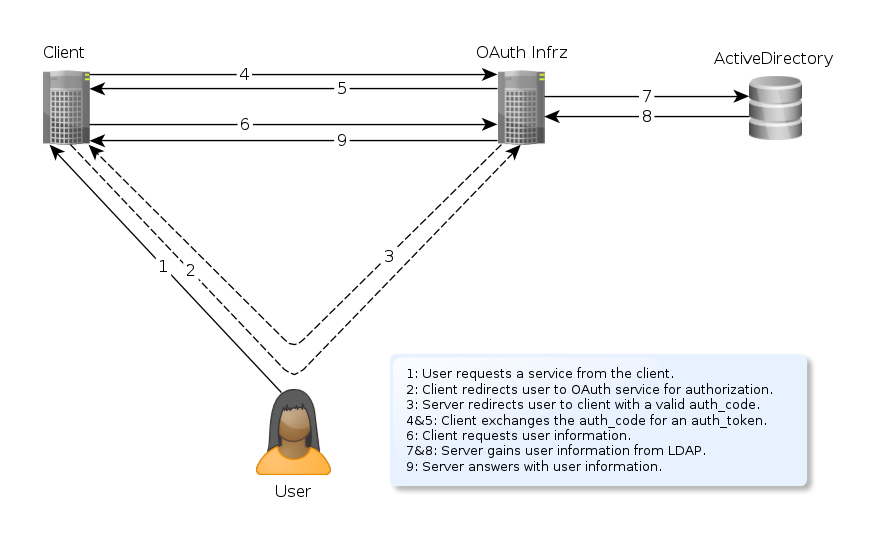
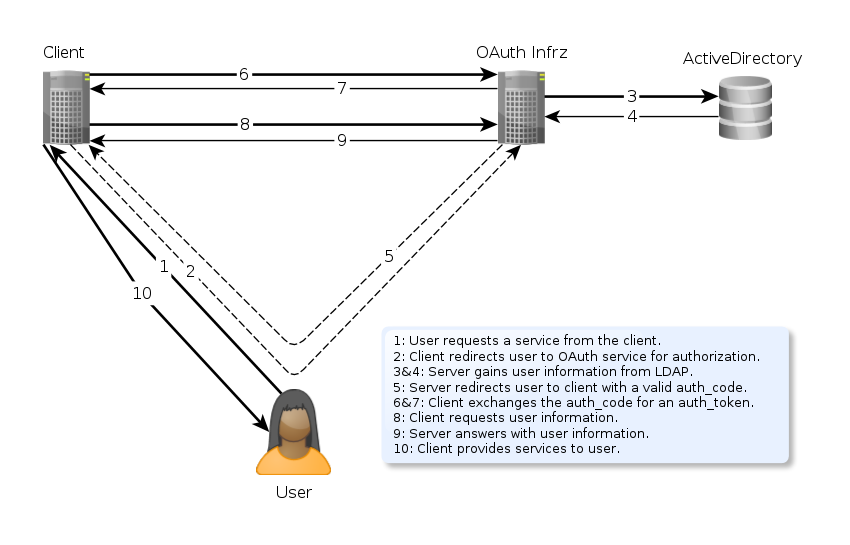
updated oauth diagram and improved doc

Changed region(s): [[0.0306, 0.0625, 0.9482, 0.9375], [0.4588, 0.5938, 0.9482, 0.9062], [0.0612, 0.0625, 0.0918, 0.125]]

diff --git a/README.md b/README.md
@@ -3,7 +3,27 @@ Single-Sign-On solution for ActiveDirectory of "Informatik Rechenzentrum" at Uni
 
 # OAuth
 ## How OAuth2 works
+The following diagram and text explains *my* implementation of the OAuth2 protocol.
+Although I have tried to conform to the protocols conventions the details to different implementations may vary.
+
 ![OAuth2 process](doc/oauth2_process.png)
+
+1. The user wants to use a client site.
+ * **GET** `https://client-site.org/service`
+2. The client site informs the user about the authorization request and redirects her to the authorization request page on the OAuth2 Infrz site.
+ * **GET** `https://my-oauth-server.edu/authorize?client_id={cid}&redirect_uri={ru}`
+3. After the user logs in to the OAuth Infrz service, it confirms the users identity by checking his "Informatik Rechenzentrum" (*irz*) credentials against the *ActiveDirectory* (*LDAP*).
+4. *LDAP* confirms the credentials and answers with the user information.
+5. After the user has accepts the authorization on the OAuth Infrz site she is redirected to the client site passing an *auth_code* through a **GET** variable.
+ * **GET** `https://client-site.org/client/redirect/page?code={auth_code}`
+6. Now that the client has a valid *auth_code* it can exchange it for an *auth_token*.
+ * **POST** `https://my-oauth-server.edu/authorize/token?grant_type={gt}client_id={cid}&client_secret={cs}&code={auth_code}&redirect_uri={ru}`
+7. The server returns the client an *auth_token* as a *JSON* encoded object.
+ * At this point it is proven to the client that the user has an *irz* account and therefore is a member of the department.
+8. The client requests user information from the server with his *auth_token*.
+ * **GET** `https://my-oauth-server.edu/user?oauth_token={auth_token}`
+9. The server answers with the *JSON* encoded user object.
+10. The client provides its services to the user.
 
 # Installation
 To install this package simply clone this project and set up a web-server. there is a sample nginx-config in the configs folder.
@@ -63,59 +83,58 @@ REST calls return their information as a JSON encoded string.
  * *client_secret*: The *client_secret* mathing to the client_id.
  * *code*: Either the *verification code* from the user or a valid *refresh_token*, depending on *grant_type*-setting.
  * *redirect_uri*: The url to which the user gets forwarded after successful permission grant.
-* **GET "/user?alias={a}&oauth_token={oat}"**: Returns the user-information.
- * *alias*: The infrz-alias ("Kennung") from the user.
+* **GET "/user?oauth_token={oat}"**: Returns the user-information.
  * *oauth_token*: The valid *oauth_token* from the client.
 
 # Database Tables
 SQLite3 is used as Database. The Database is saved in `oauth-infrz.sqlite3`.
 
 ## client
-* id: INTEGER primary key
-* name: varchar
-* user_id: int
-* description: text
-* client_id: varchar unique
-* client_secret: varchar
-* redirect_uri: varchar
-* default_scope: varchar
+* **id**: INTEGER primary key
+* **name**: varchar
+* **user_id**: int
+* **description**: text
+* **client_id**: varchar unique
+* **client_secret**: varchar
+* **redirect_uri**: varchar
+* **host**: varchar
+* **default_scope**: varchar
 
 ## user
-* id: INTEGER primary key
-* alias: varchar unique
-* first_name: varchar
-* last_name: varchar
-* email: varchar
-* groups: varchar
-* {various user information}
+* **id**: INTEGER primary key
+* **alias**: varchar unique
+* **first_name**: varchar
+* **last_name**: varchar
+* **email**: varchar
+* **groups**: varchar
 
 ## auth_token
-* id: INTEGER primary key
-* user_id: int
-* client_id: int
-* token: varchar unique
-* scope: varchar
-* expires_at: int
+* **id**: INTEGER primary key
+* **user_id**: int
+* **client_id**: int
+* **token**: varchar unique
+* **scope**: varchar
+* **expires_at**: int
 
 ## auth_code
-* id: INTEGER primary key
-* user_id: int
-* client_id: int
-* code: varchar unique
-* scope: varchar
-* created: int
+* **id**: INTEGER primary key
+* **user_id**: int
+* **client_id**: int
+* **code**: varchar unique
+* **scope**: varchar
+* **created**: int
 
 ## refresh_token
-* id: INTEGER primary key
-* auth_token_id: int
-* token: varchar unique
-* created: int
+* **id**: INTEGER primary key
+* **auth_token_id**: int
+* **token**: varchar unique
+* **created**: int
 
 ## web_token
-* id: INTEGER primary key
-* user_id: int
-* token: varchar unique
-* expires_at: int
+* **id**: INTEGER primary key
+* **user_id**: int
+* **token**: varchar unique
+* **expires_at**: int
 
 # TODO
 * write How-Tos
